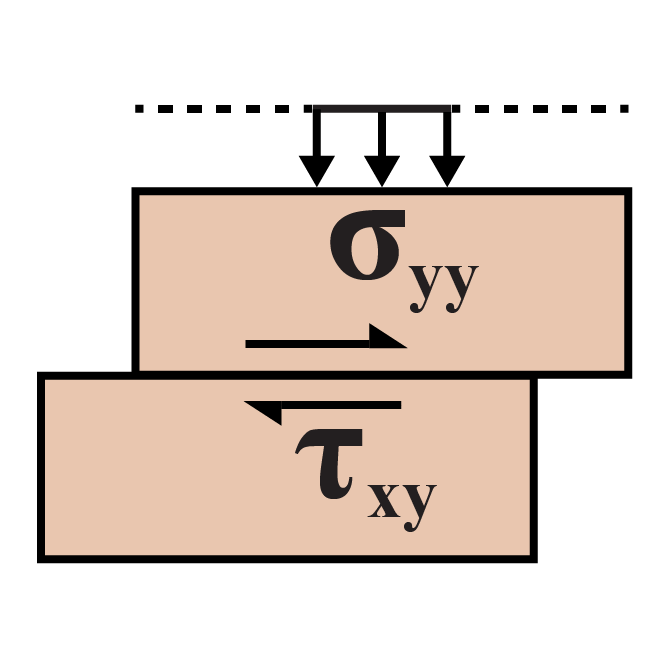
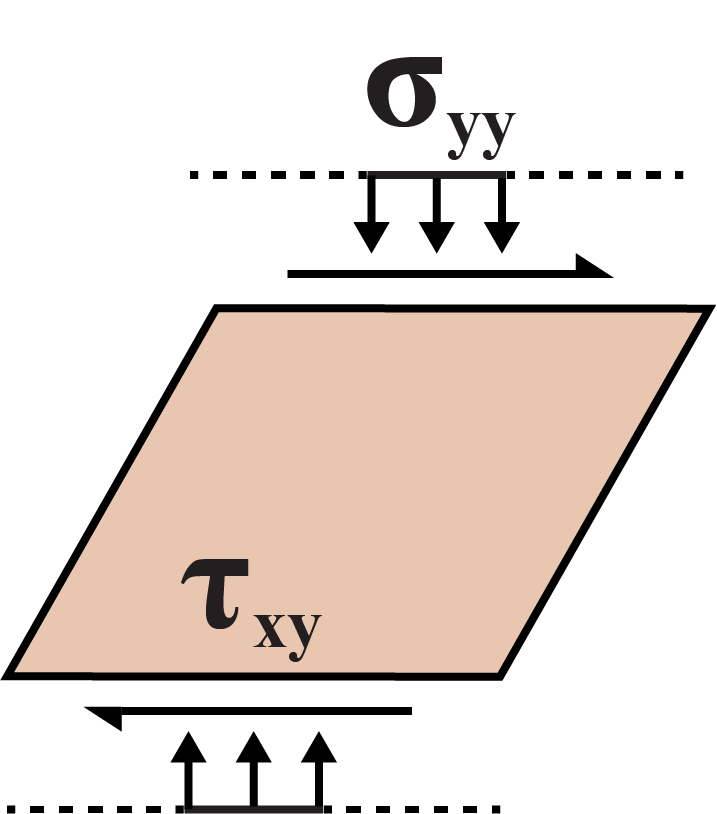
Dss test figure needs to be fixed (#48)
* added the new Direct Simple Shear test figure

* update the version

Changed region(s): [[0.0, 0.0625, 1.0, 1.0]]

diff --git a/kratos_element_test/view/ui_constants.py b/kratos_element_test/view/ui_constants.py
@@ -7,7 +7,7 @@
 
 # Application data
 APP_TITLE = "Deltares Soil Element Test Suite"
-APP_VERSION = "Version 0.3.0 ~ Alpha Release"
+APP_VERSION = "Version 0.5.0 ~ Alpha Release"
 APP_NAME = "SoilElementSuite"
 APP_AUTHOR = "Deltares"
 
